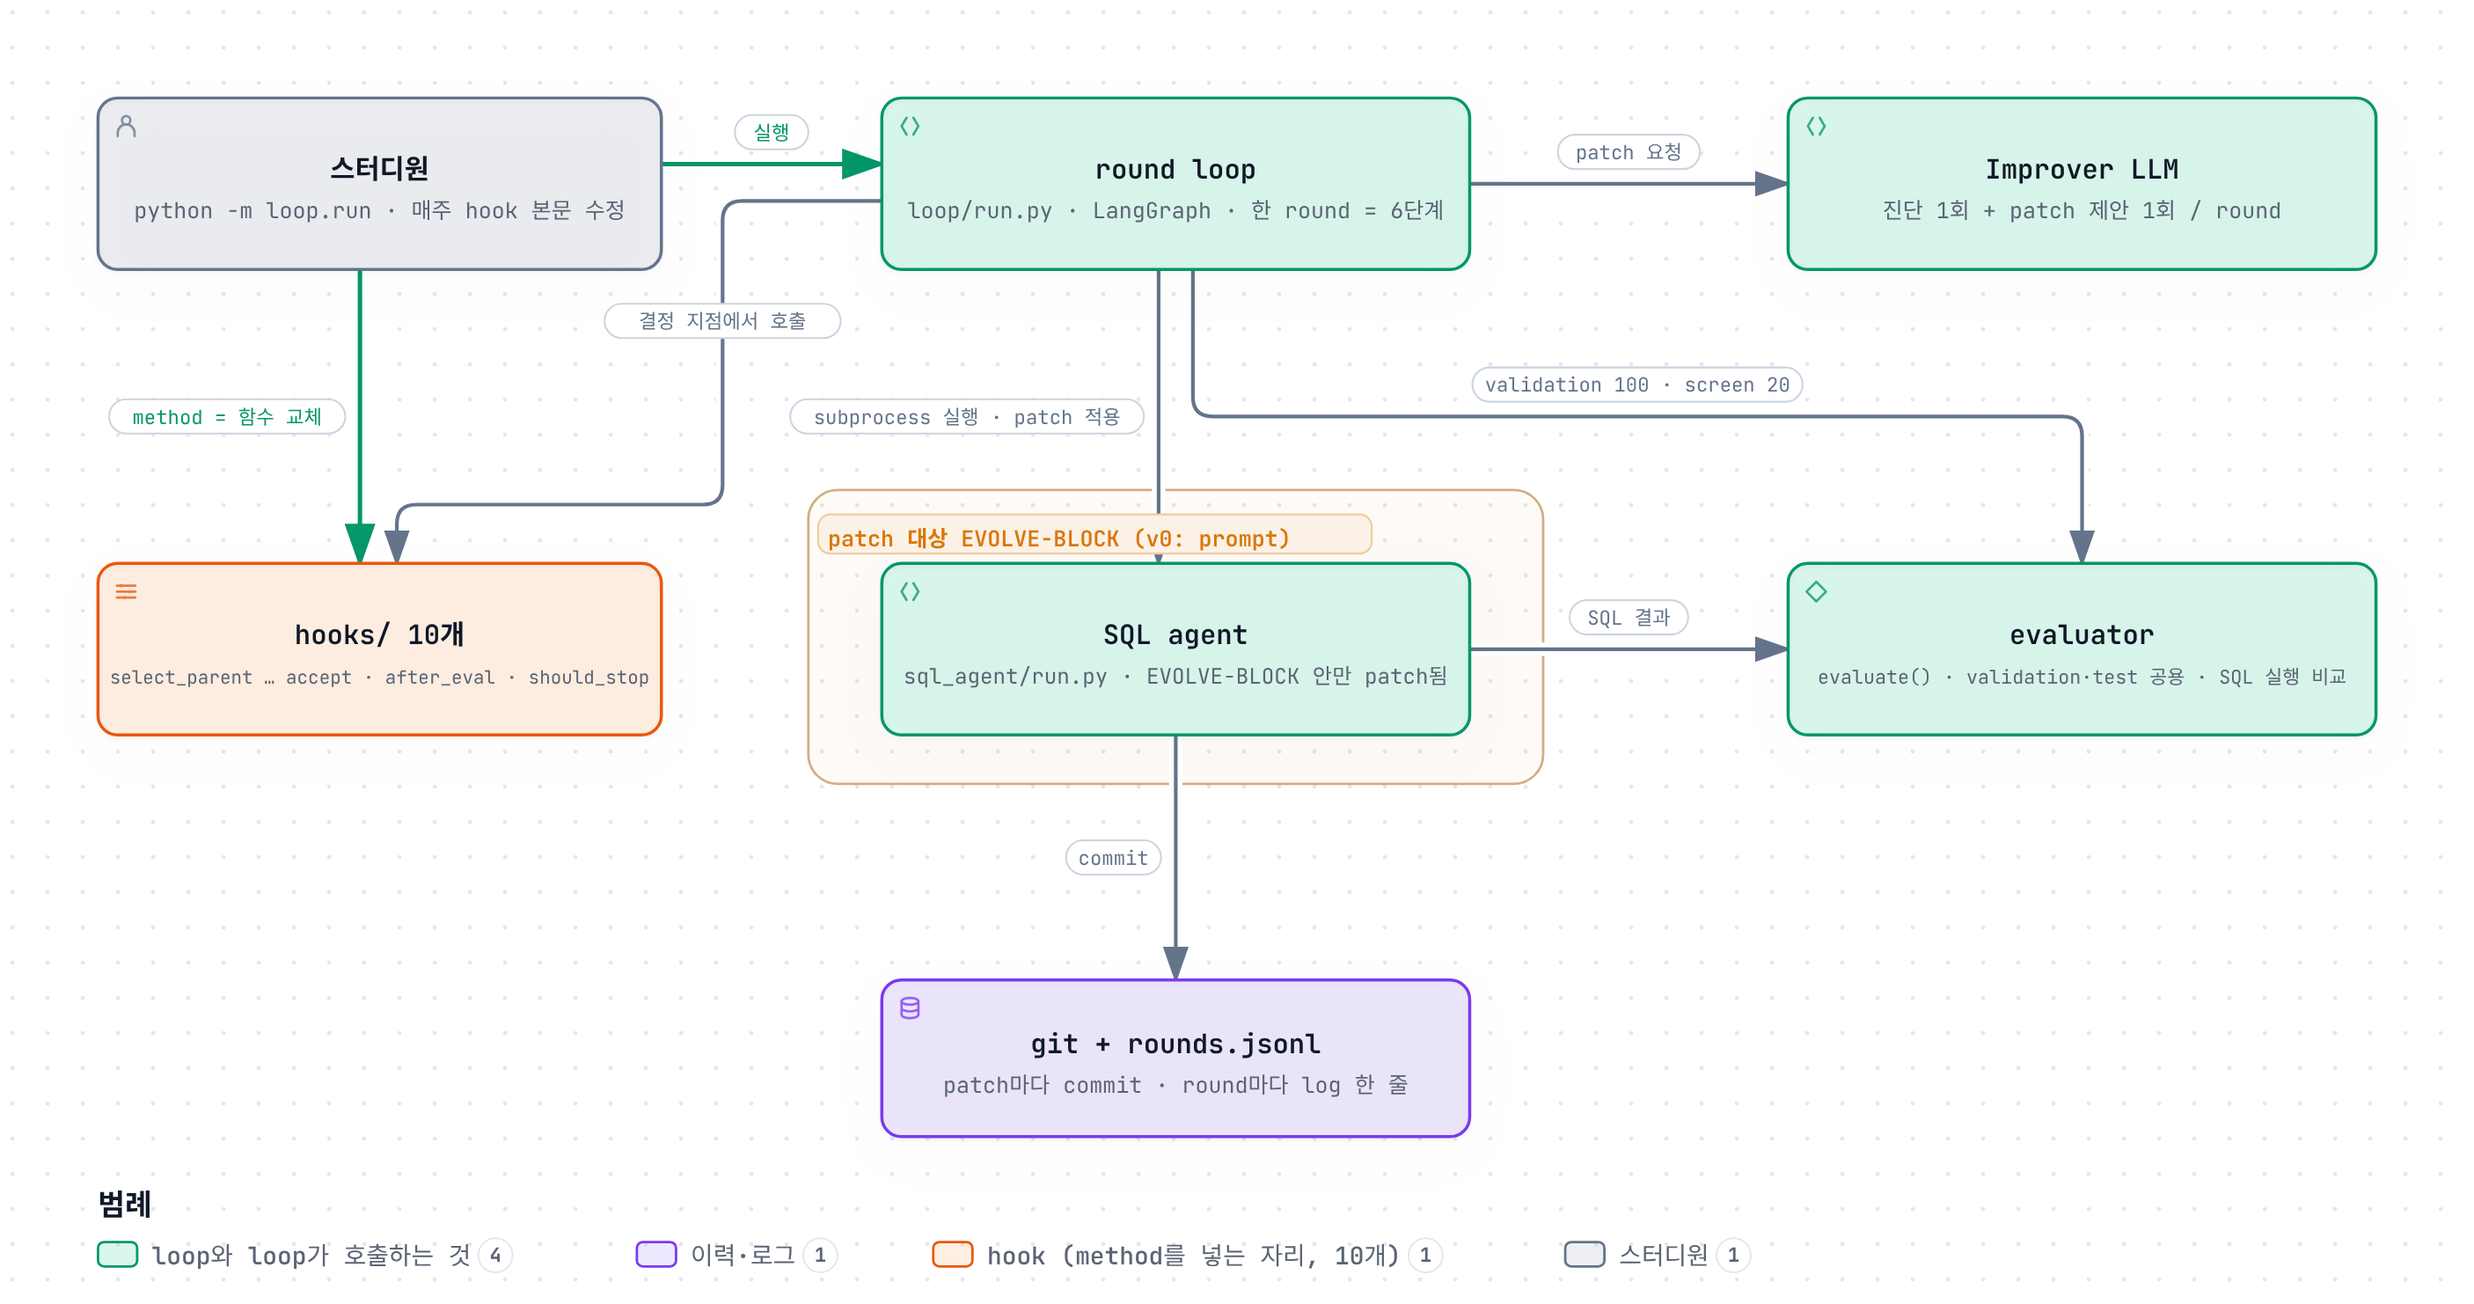
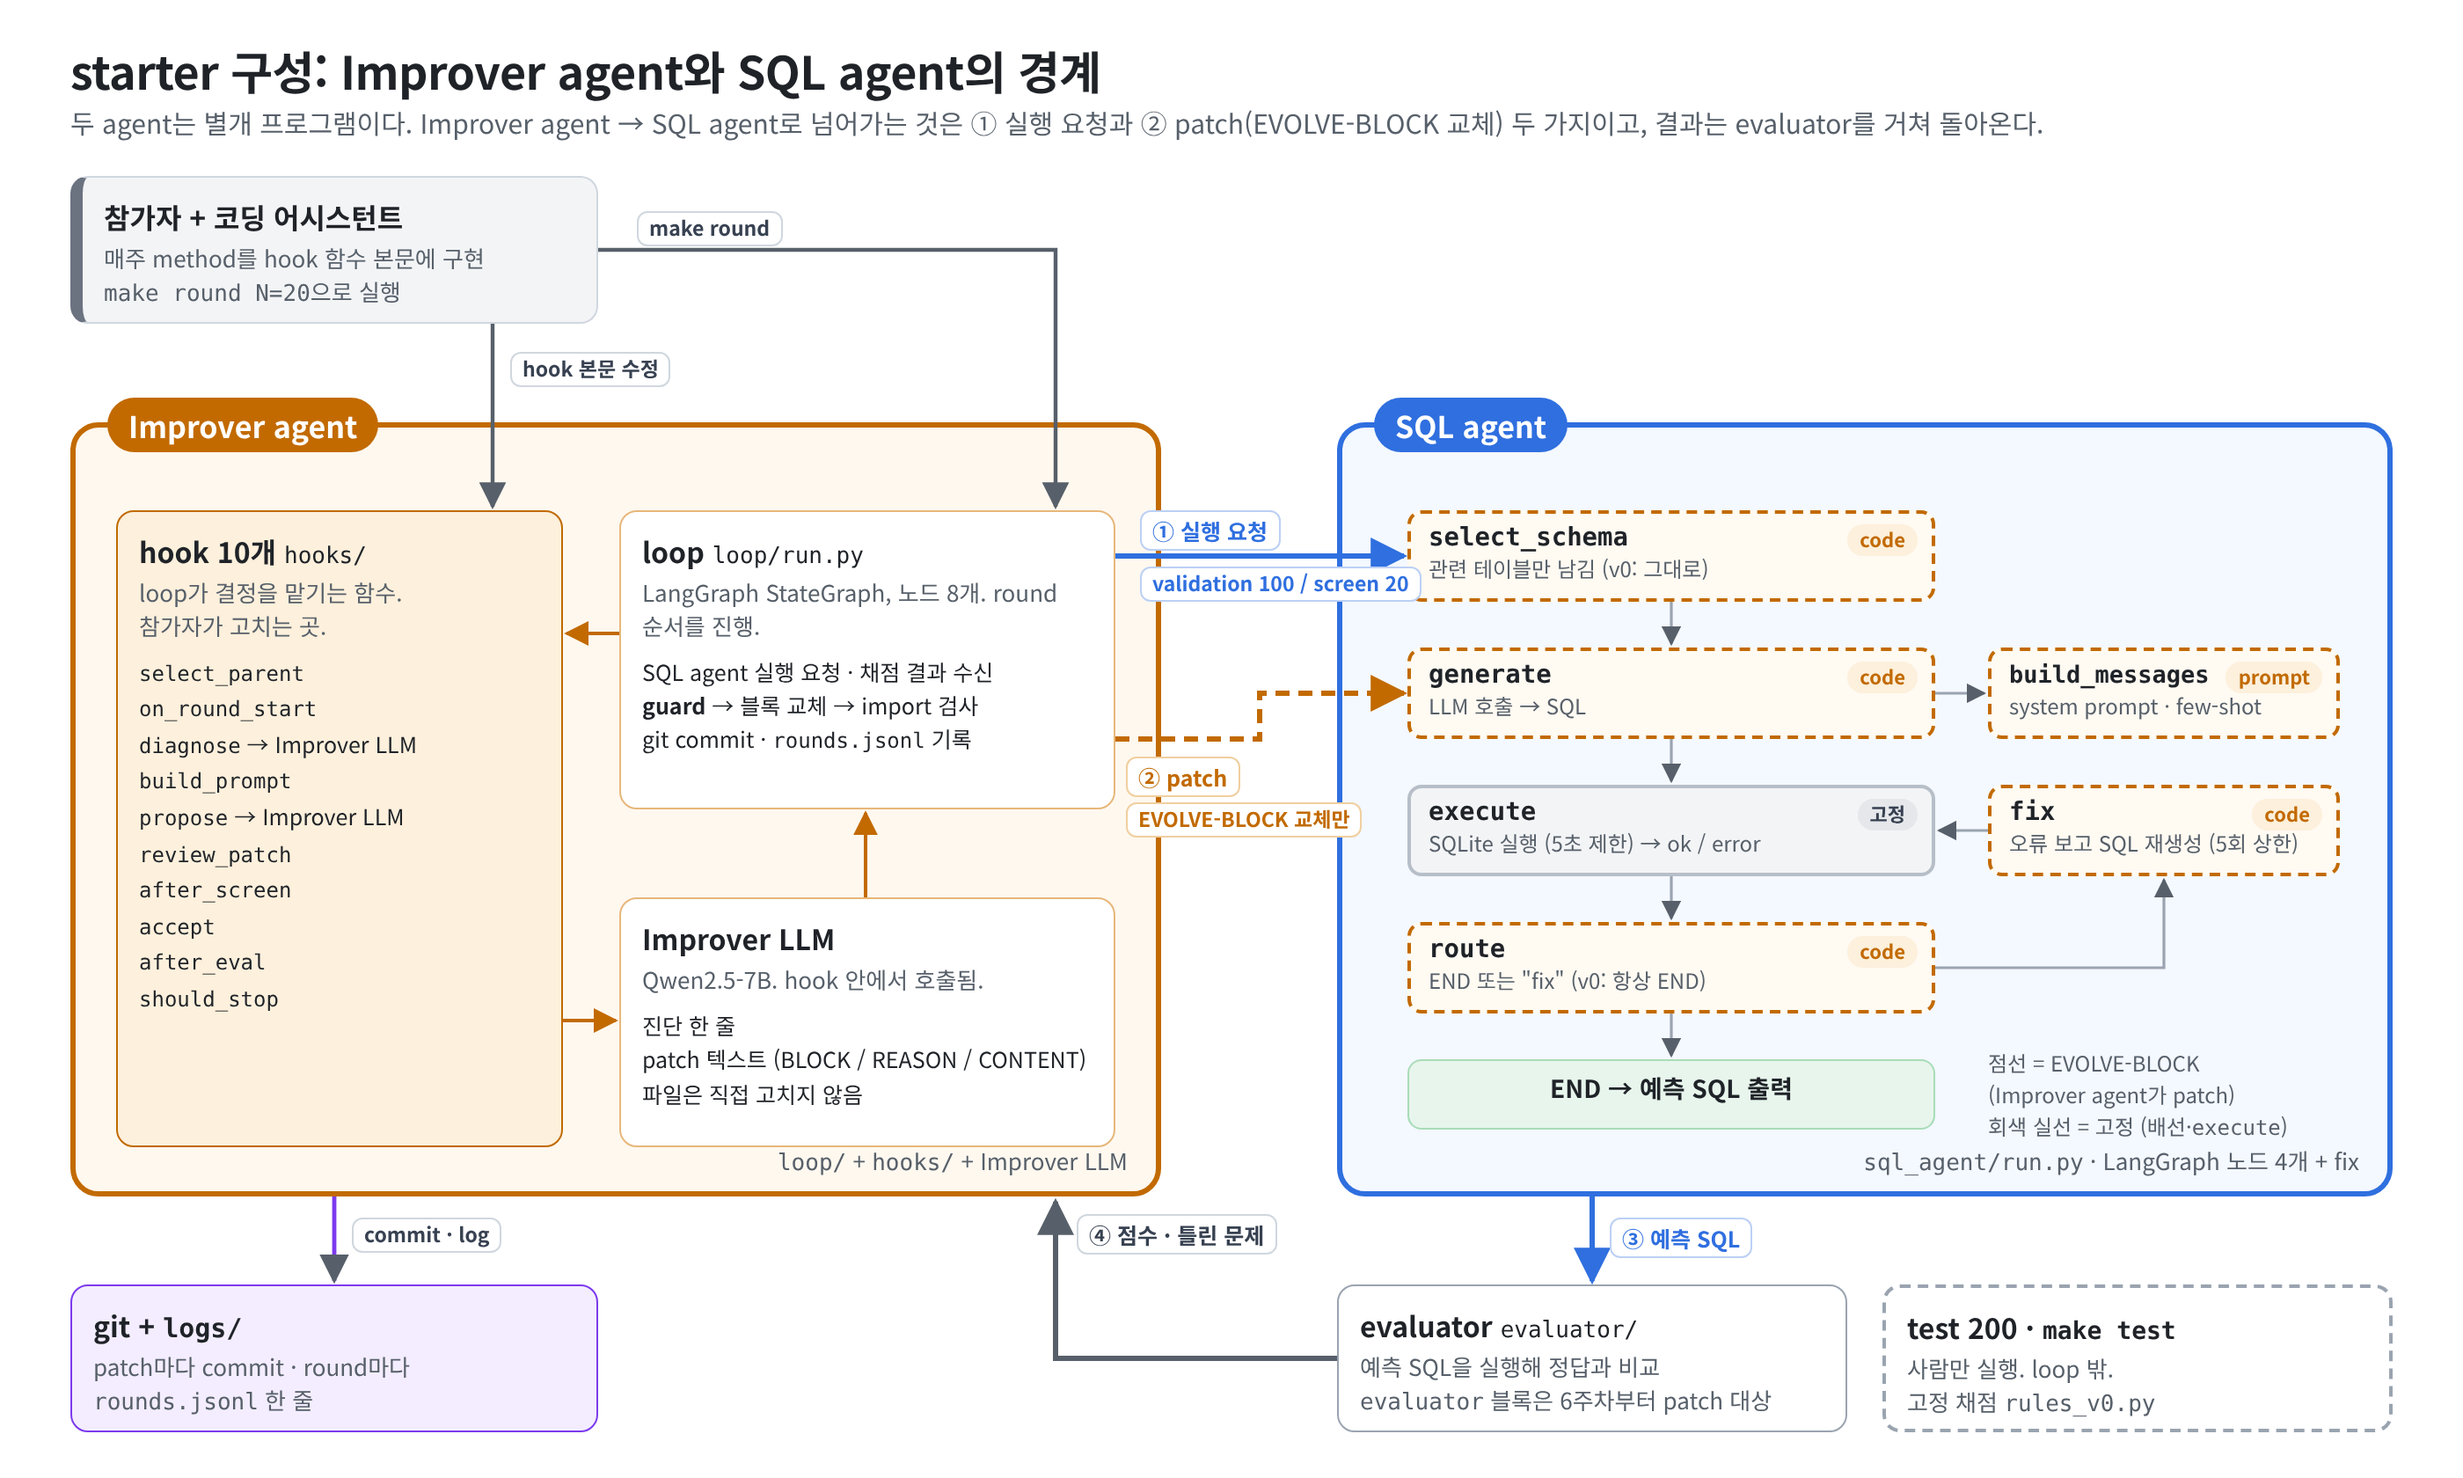
docs: 구성도를 Improver agent / SQL agent 경계 중심으로 다시 그림
Claude-Session: https://claude.ai/code/session_016zuU2mSgMQZFFveCAhWrPT

diff --git a/README.md b/README.md
@@ -60,7 +60,7 @@ make results W=1             # 그 주의 결과 표
 
 ## 2. 폴더
 
-![구성도: Improver agent(loop + hooks + Improver LLM)가 SQL agent의 EVOLVE-BLOCK을 고치고, evaluator가 validation으로 채점한다. test는 loop 밖](docs/structure.png)
+![구성도: Improver agent와 SQL agent의 경계. 경계를 넘는 것은 실행 요청과 patch(EVOLVE-BLOCK 교체)뿐이고, 결과는 evaluator를 거쳐 돌아온다. test는 loop 밖](docs/structure.png)
 
 | 경로 | 하는 일 | 누가 고치나 |
 |---|---|---|
